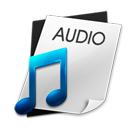
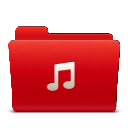
更新了媒体库页面添加文件夹的图标； 两个登录界面分别添加了“记住密码”复选框； 更新了初始化设置界面的关闭按钮。

diff --git a/AreaParty/windows/NasConnectWindow.xaml b/AreaParty/windows/NasConnectWindow.xaml
@@ -6,7 +6,7 @@
         xmlns:WpfTest="clr-namespace:AreaParty.windows" 
         WindowStartupLocation="CenterOwner"
         mc:Ignorable="d"
-        Title="NasConnectWindow" Height="330" Width="430" AllowsTransparency="True" WindowStyle="None" MouseDown="Window_MouseDown">
+        Title="NasConnectWindow" Height="350" Width="430" AllowsTransparency="True" WindowStyle="None" MouseDown="Window_MouseDown">
     <Window.Resources>
 
         <Style x:Key="{x:Type PasswordBox}" TargetType="{x:Type PasswordBox}">
@@ -195,14 +195,14 @@
                     </Button.Background>
                 </Button>-->
 
-                <Rectangle Stroke="Black" StrokeThickness="0" Width="1" Margin="0,0,88.2,8.77" HorizontalAlignment="Right" Height="17">
+                <!--<Rectangle Stroke="Black" StrokeThickness="0" Width="1" Margin="0,0,88.2,8.77" HorizontalAlignment="Right" Height="17">
                     <Rectangle.Fill>
                         <LinearGradientBrush EndPoint="0.5,1" StartPoint="0.5,0">
                             <GradientStop Color="#85000000"/>
                             <GradientStop Offset="1" Color="#1A4D4D4D"/>
                         </LinearGradientBrush>
                     </Rectangle.Fill>
-                </Rectangle>
+                </Rectangle>-->
                 <Rectangle Stroke="Black" StrokeThickness="0" Width="1" Margin="0,0,46.2,8.77" HorizontalAlignment="Right" Height="17">
                     <Rectangle.Fill>
                         <LinearGradientBrush EndPoint="0.5,1" StartPoint="0.5,0">
@@ -230,15 +230,17 @@
                         <ImageBrush ImageSource="/styles/skin/ico/ico_login_person.png"/>
                     </Border.Background>
                 </Border>
-                <StackPanel Width="179" Height="62" Margin="10,10,0,0">
+                <StackPanel Width="180" Height="89" Margin="10,10,0,0">
                     <Border BorderBrush="Gray" CornerRadius="5" BorderThickness="1">
-                        <StackPanel Width="180" Height="60">
+                        <StackPanel Width="180" Height="60" Margin="-1,0,-2,0">
                             <!--<TextBox Name="NasNameTextBox" GotFocus="NasNameTextBox_GotFocus" LostFocus="NasNameTextBox_LostFocus" Height="25" Width="180" Background="{x:Null}" BorderThickness="0,0,0,1" Margin="0,5,0,0" FontSize="14" Foreground="Gray">NAS设备名称</TextBox>-->
-                            <TextBox Name="UserNameTextBox" GotFocus="UserNameTextBox_GotFocus" LostFocus="UserNameTextBox_LostFocus" Height="25" Width="180" Background="{x:Null}" BorderThickness="0,0,0,1" Margin="0,5,0,0" FontSize="14" Foreground="Gray">NAS用户账号</TextBox>
-                            <PasswordBox  Name="PasswordTextBox" Height="25" Width="180" Background="{x:Null}" BorderThickness="0" Margin="0,2,0,0" FontSize="14" Foreground="Gray"></PasswordBox>
+                            <TextBox x:Name="UserNameTextBox" GotFocus="UserNameTextBox_GotFocus" LostFocus="UserNameTextBox_LostFocus" Height="25" Width="180" Background="{x:Null}" BorderThickness="0,0,0,1" Margin="0,5,0,0" FontSize="14" Foreground="Gray" Text="NAS管理员账号"/>
+                            <PasswordBox  x:Name="PasswordTextBox" Height="25" Width="180" Background="{x:Null}" BorderThickness="0" Margin="0,2,0,0" FontSize="14" Foreground="Gray"/>
                         </StackPanel>
                     </Border>
+                    <CheckBox Content="记住密码" Height="16" Width="94" Margin="-80,7,0,0"/>
                 </StackPanel>
+                
 
                 <!--<StackPanel Height="60" Margin="15">
                     <TextBlock Height="30">  
@@ -252,8 +254,9 @@
             </StackPanel>
 
             <Border Height="30" Width="180" Margin="20,5,0,0" CornerRadius="5" BorderBrush="#FF0E95F1" BorderThickness="1">
-                <Button Height="30" Click="Login_Button_Click" FontWeight="Bold" Width="180" Content="登  录" FontFamily="宋体" Foreground="White" Background="#FF0E95F1" BorderThickness="0" Style="{DynamicResource ButtonStyle1}"></Button>
+                <Button Height="30" Click="Login_Button_Click" FontWeight="Bold" Width="180" Content="登  录" FontFamily="宋体" Foreground="White" Background="#fc3c2b" BorderThickness="0" Style="{DynamicResource ButtonStyle1}"></Button>
             </Border>
         </StackPanel>
+        <TextBlock FontSize="11" FontFamily="宋体" Margin="25,0,0,0" Foreground="Gray" TextBlock.LineHeight="20" TextWrapping="Wrap" xml:space="preserve" Height="20">提示：登录后在"网络"中找到您的NAS设备，打开并选中相应的文件夹进行映射。</TextBlock>
     </StackPanel>
 </Window>

diff --git a/AreaParty/pages/SettingPage.xaml b/AreaParty/pages/SettingPage.xaml
@@ -199,11 +199,11 @@ TV端设置步骤(建议插上鼠标键盘方便设置)：
                         <RowDefinition Height="330.471"></RowDefinition>
                         <RowDefinition Height="60"/>
                     </Grid.RowDefinitions>
-                    <Label Content="打开NAS长连接" Foreground="#cc9966" FontFamily="宋体" Margin="15,0,0,0" HorizontalAlignment="Left" VerticalAlignment="Center"/>
+                    <Label Content="NAS连接开关" Foreground="#cc9966" FontFamily="宋体" Margin="15,0,0,0" HorizontalAlignment="Left" VerticalAlignment="Center"/>
                     <CheckBox Name="LoginCheckBox_NAS" Style="{DynamicResource OrangeSwitchStyle}" Click="Login_CheckBox_NAS_Click"  HorizontalAlignment="Right" VerticalAlignment="Top"  Margin="0,6,21,0"/>
                     <TextBlock Grid.Row="1" Name="LoginTextBlock_NAS" TextWrapping="Wrap" FontFamily="宋体" FontSize="14" TextBlock.LineHeight="21" Margin="15,0,15,0" FontStretch="Expanded"  xml:space="preserve">
-    若开启长连接，本软件会帮助您保存您的NAS管理员账号，方便您使用手机远程管理NAS，进行数据存储、查看状态等操作。
-    若不需要关闭即可。
+    若开启长连接，当您打开本软件时会直接连接您的NAS设备，之后您可以使用手机远程管理NAS，进行数据存储、查看状态等操作。
+    若不开启长连接，则不能使用以上功能。
                     </TextBlock>
                     <Grid Grid.Row="2">
                         <Grid.ColumnDefinitions>
@@ -215,7 +215,7 @@ TV端设置步骤(建议插上鼠标键盘方便设置)：
                     </Grid>
                 </Grid>
             </TabItem>
-            <TabItem Header="其他软件" Margin="0" Style="{DynamicResource SettinglistTabItemStyle}" BorderBrush="{x:Null}" Foreground="Black" Height="30">
+            <TabItem Header="其他设置" Margin="0" Style="{DynamicResource SettinglistTabItemStyle}" BorderBrush="{x:Null}" Foreground="Black" Height="30">
                 <TabItem.Background>
                     <ImageBrush ImageSource="/styles/skin/ico/ico_settingpage_other.png" Stretch="UniformToFill"/>
                 </TabItem.Background>

diff --git a/AreaParty/windows/InitSetting.xaml b/AreaParty/windows/InitSetting.xaml
@@ -74,12 +74,13 @@
             <TextBlock x:Name="txtTitle" Margin="0,0,0,0"  Padding="5,3,5,5" Text="初始化设置" 
                    HorizontalAlignment="Left" VerticalAlignment="Center" FontSize="15" FontFamily="宋体"  
                    Foreground="White" Width="84" Height="20"/>
-            <Button Name="close_button" Width="30" Height="30" Margin="668,0,0,0" Click="close_button_Click" BorderThickness="0" MouseMove="close_button_MouseMove">
+            <Button Content="x" HorizontalAlignment="Right" Margin="666,0,0,0" Style="{DynamicResource SysButtonStyle}" Width="32" x:Name="close_button" Click="close_button_Click_1" Height="30" />
+            <!--<Button Name="close_button" Width="30" Height="30" Margin="668,0,0,0" Click="close_button_Click" BorderThickness="0" MouseMove="close_button_MouseMove">
                 <Button.Background>
                     <ImageBrush ImageSource="/styles/skin/close_bottun.png" Stretch="Fill"/>
                 </Button.Background>
             </Button>
-            <!--<Image Height="30" Width="30" Margin="668,0,0,0" Source="/styles/skin/close_button.png"/>-->
+            <Image Height="30" Width="30" Margin="668,0,0,0" Source="/styles/skin/close_button.png"/>-->
         </WrapPanel>
 
         <Grid Grid.Row="1" Name="RemoteSetting" Grid.RowSpan="3" >

diff --git a/AreaParty/pages/MediaPage.xaml b/AreaParty/pages/MediaPage.xaml
@@ -34,7 +34,7 @@
                             <!--
                             </Grid.ColumnDefinitions>-->
                             <Image Grid.Column="0"  Width="60" Margin="2,2,2,1" Source="{Binding ImagePath}"/>
-                            <TextBlock Name="textBlock" Grid.Column="1" Margin="2,20,2,1" FontSize="13" HorizontalAlignment="Center" Text="{Binding Name}"/>
+                            <TextBlock Name="textBlock" Grid.Column="1" Margin="2,25,2,1" FontSize="15" HorizontalAlignment="Center" Text="{Binding Name}"/>
                             <Grid.ContextMenu>
                                 <ContextMenu>
                                     <MenuItem Header="删除" Click="Menu_Remove_Click"/>

diff --git a/AreaParty/windows/UserLoginWindow.xaml b/AreaParty/windows/UserLoginWindow.xaml
@@ -234,7 +234,7 @@
                             <PasswordBox  Name="PasswordTextBox" Height="25" Width="180" Background="{x:Null}" BorderThickness="0" Margin="0,2,0,0" FontSize="14" Foreground="Gray"></PasswordBox>
                         </StackPanel>
                     </Border>
-
+                    <CheckBox Content="记住密码" Height="16" Width="94" Margin="-80,7,0,0"/>
                     <!-- 
                     <StackPanel Orientation="Horizontal" Height="15" Width="180" Margin="0,10,0,0">
                         <CheckBox Name="RememberPasswordCheckBox" Style="{DynamicResource CheckBoxStyle1}">记住密码</CheckBox>

diff --git a/AreaParty/windows/NasConnectWindow.xaml.cs b/AreaParty/windows/NasConnectWindow.xaml.cs
@@ -1,5 +1,6 @@
 using System;
 using System.Collections.Generic;
+using System.Configuration;
 using System.Diagnostics;
 using System.IO;
 using System.Linq;
@@ -38,12 +39,12 @@ namespace AreaParty.windows
 
         private void Login_Button_Click(object sender, RoutedEventArgs e)
         {
+            Configuration config = System.Configuration.ConfigurationManager.OpenExeConfiguration(ConfigurationUserLevel.None);
             //string nasname = this.NasNameTextBox.Text;
             username = this.UserNameTextBox.Text;
             password = this.PasswordTextBox.Password;
-            
-                                //string username = "admin";    //NAS的账户
-                                //string password = "abc123";    //NAS的密码
+            //string username = "admin";    //NAS的账户
+            //string password = "abc123";    //NAS的密码
             //Device device = new Device(nasname, username, password);
 
             string path = "";           //保存选择文件夹的名称
@@ -54,8 +55,20 @@ namespace AreaParty.windows
             FindDiskName();
             Get_Share(remotepath, localpath, username, password);
             this.Close();
-        }
 
+            config.AppSettings.Settings["nasusername"].Value = username;
+            config.AppSettings.Settings["naspassword"].Value = password;
+
+            config.Save(ConfigurationSaveMode.Modified);
+            System.Configuration.ConfigurationManager.RefreshSection("appSettings");
+        }
+        /// <summary>
+        /// 映射共享文件
+        /// </summary>
+        /// <param name="remotepath"></param>
+        /// <param name="localpath"></param>
+        /// <param name="username"></param>
+        /// <param name="password"></param>
         public static void Get_Share(string remotepath, string localpath, string username, string password)
         {
             Process.Start("net", " use " + localpath + " " + remotepath + " " + password + " /user:" + username);
@@ -108,7 +121,7 @@ namespace AreaParty.windows
         private void UserNameTextBox_GotFocus(object sender, RoutedEventArgs e)
         {
             string name = this.UserNameTextBox.Text;
-            if (name == "NAS用户账号")
+            if (name == "NAS管理员账号")
             {
                 this.UserNameTextBox.Text = "";
             }
@@ -118,7 +131,7 @@ namespace AreaParty.windows
         {
             if (this.UserNameTextBox.Text == "")
             {
-                this.UserNameTextBox.Text = "NAS用户账号";
+                this.UserNameTextBox.Text = "NAS管理员账号";
             }
         }
     }

diff --git a/AreaParty/pages/SettingPage.xaml.cs b/AreaParty/pages/SettingPage.xaml.cs
@@ -5,6 +5,7 @@ using client;
 using Newtonsoft.Json;
 using System;
 using System.Collections.Generic;
+using System.Configuration;
 using System.Diagnostics;
 using System.IO;
 using System.Linq;
@@ -138,15 +139,15 @@ namespace AreaParty.pages
             }
         }
 
-
-        string user;
-        string password;
-        string remotepath;  //NAS将要映射的共享文件夹
         string localpath;   //映射为本地的盘符
         private void MoreNas_Click(object sender, MouseButtonEventArgs e)
         {
-            
-
+            string remotepath;  //NAS将要映射的共享文件夹
+            Configuration config = System.Configuration.ConfigurationManager.OpenExeConfiguration(ConfigurationUserLevel.None);
+            string user = config.AppSettings.Settings["nasusername"].Value;
+            string password = config.AppSettings.Settings["naspassword"].Value;
+            config.Save(ConfigurationSaveMode.Modified);
+            System.Configuration.ConfigurationManager.RefreshSection("appSettings");
             string path = "";           //保存选择文件夹的名称
             FolderBrowserDialog dilog = new FolderBrowserDialog();
             dilog.Description = "请选择文件夹";

diff --git a/AreaParty/transferinformation/TransferInformationService.cs b/AreaParty/transferinformation/TransferInformationService.cs
@@ -80,6 +80,20 @@ namespace transferinfomation
                     ReturnMessageFormat returnMessage = new ReturnMessageFormat();
                     switch (request.name)
                     {
+                        case Order.nasAction_name:
+                            switch (request.command)
+                            {
+                                case Order.nasAction_manager:
+                                    
+                                    break;
+                                case Order.nasAction_add:
+
+                                    break;
+                                case Order.nasAction_delete:
+                                    
+                                    break;
+                            }
+                            break;
                         case Order.get_areaparty_path:
                             returnMessage.data = null;
                             returnMessage.message = Environment.GetFolderPath(Environment.SpecialFolder.LocalApplicationData) + "\\AreaParty\\";

diff --git a/AreaParty/windows/InitSetting.xaml.cs b/AreaParty/windows/InitSetting.xaml.cs
@@ -222,16 +222,9 @@ namespace AreaParty.windows
             }
         }
 
-        private void close_button_Click(object sender, RoutedEventArgs e)
+        private void close_button_Click_1(object sender, RoutedEventArgs e)
         {
             this.Close();
-        }
-
-        private void close_button_MouseMove(object sender, MouseEventArgs e)
-        {
-            //ImageBrush brush = new ImageBrush();
-            //brush.ImageSource = new BitmapImage(new Uri("/styles/skin/close_bottun.png", UriKind.Relative));
-            //close_button.Background = brush;
         }
     }
 }

diff --git a/AreaParty/transferinformation/Order.cs b/AreaParty/transferinformation/Order.cs
@@ -49,7 +49,11 @@ namespace transferinformation
         public const string appAction_get_more_param = "GETMOREEXE";
 
         public const string get_areaparty_path = "GETAREAPARTYPATH";
-        
+
+        public const string nasAction_name = "NAS";
+        public const string nasAction_manager = "NASMANAGER";
+        public const string nasAction_add = "NASADD";
+        public const string nasAction_delete = "NASDELETE";
     
     }
 }

diff --git a/AreaParty/function/nas/NasFunction.cs b/AreaParty/function/nas/NasFunction.cs
@@ -1,0 +1,13 @@
+using System;
+using System.Collections.Generic;
+using System.Linq;
+using System.Text;
+using System.Threading.Tasks;
+
+namespace AreaParty.function.nas
+{
+    class NasFunction
+    {
+        
+    }
+}
